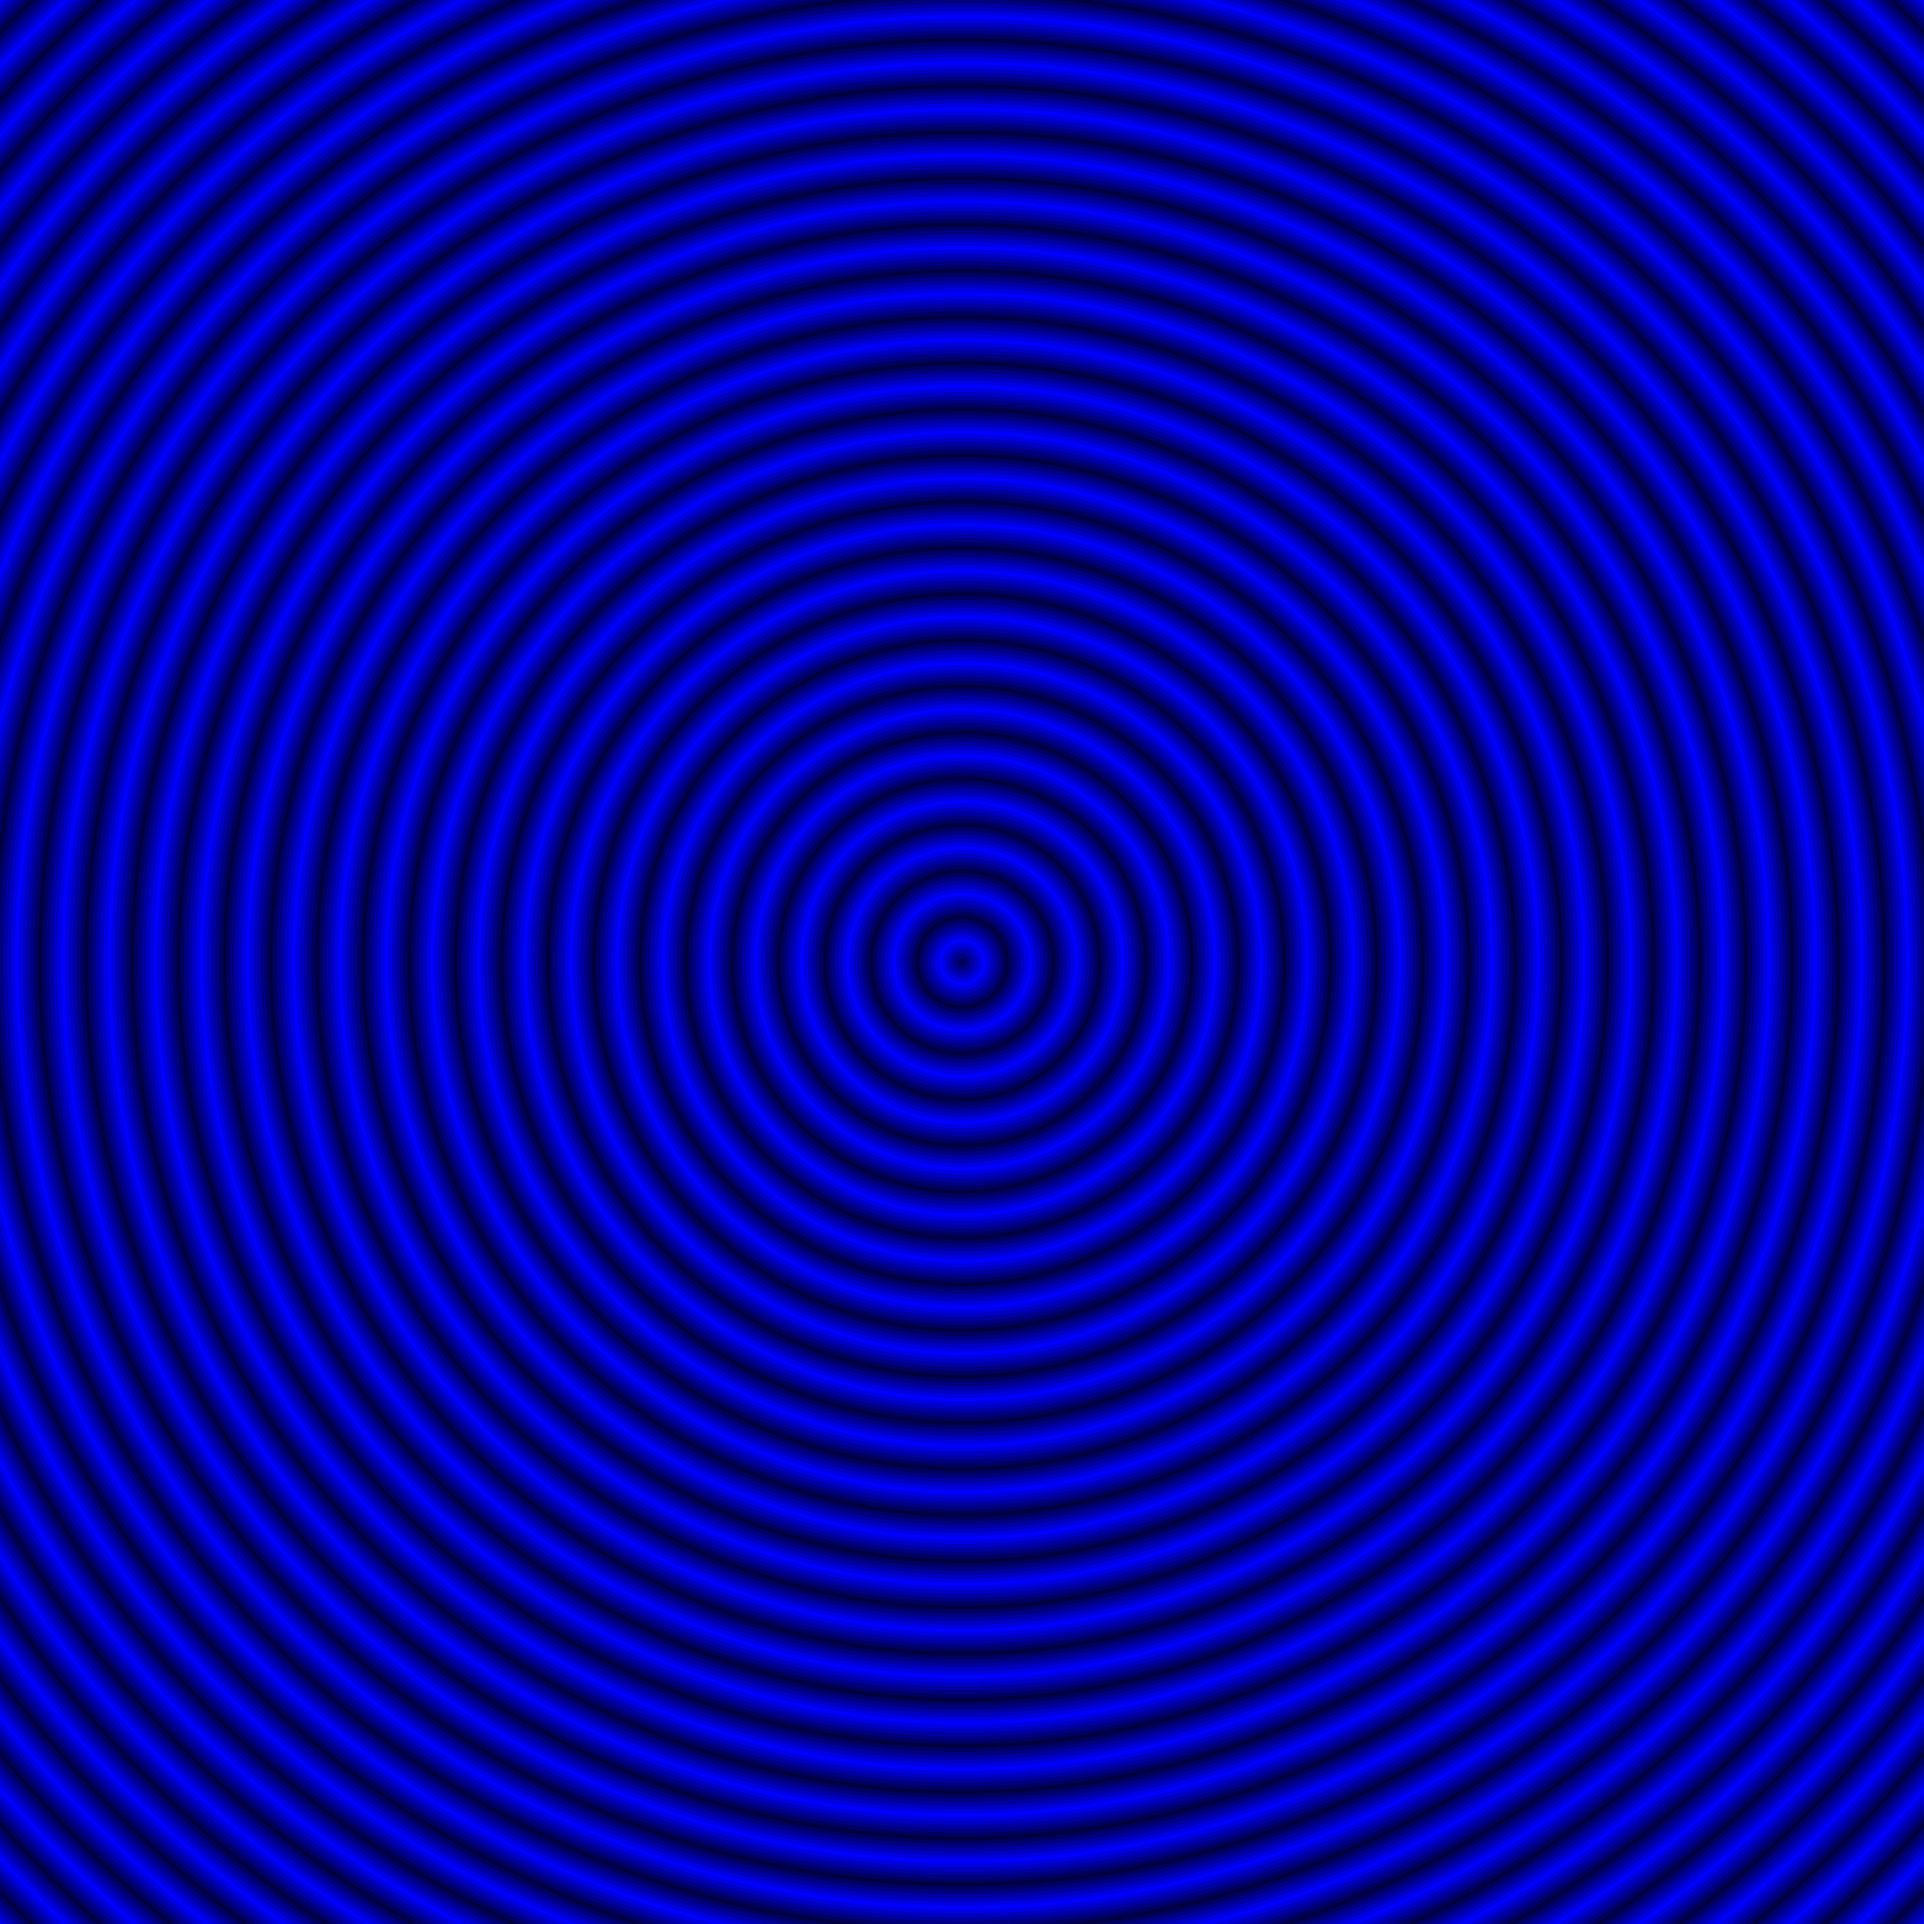
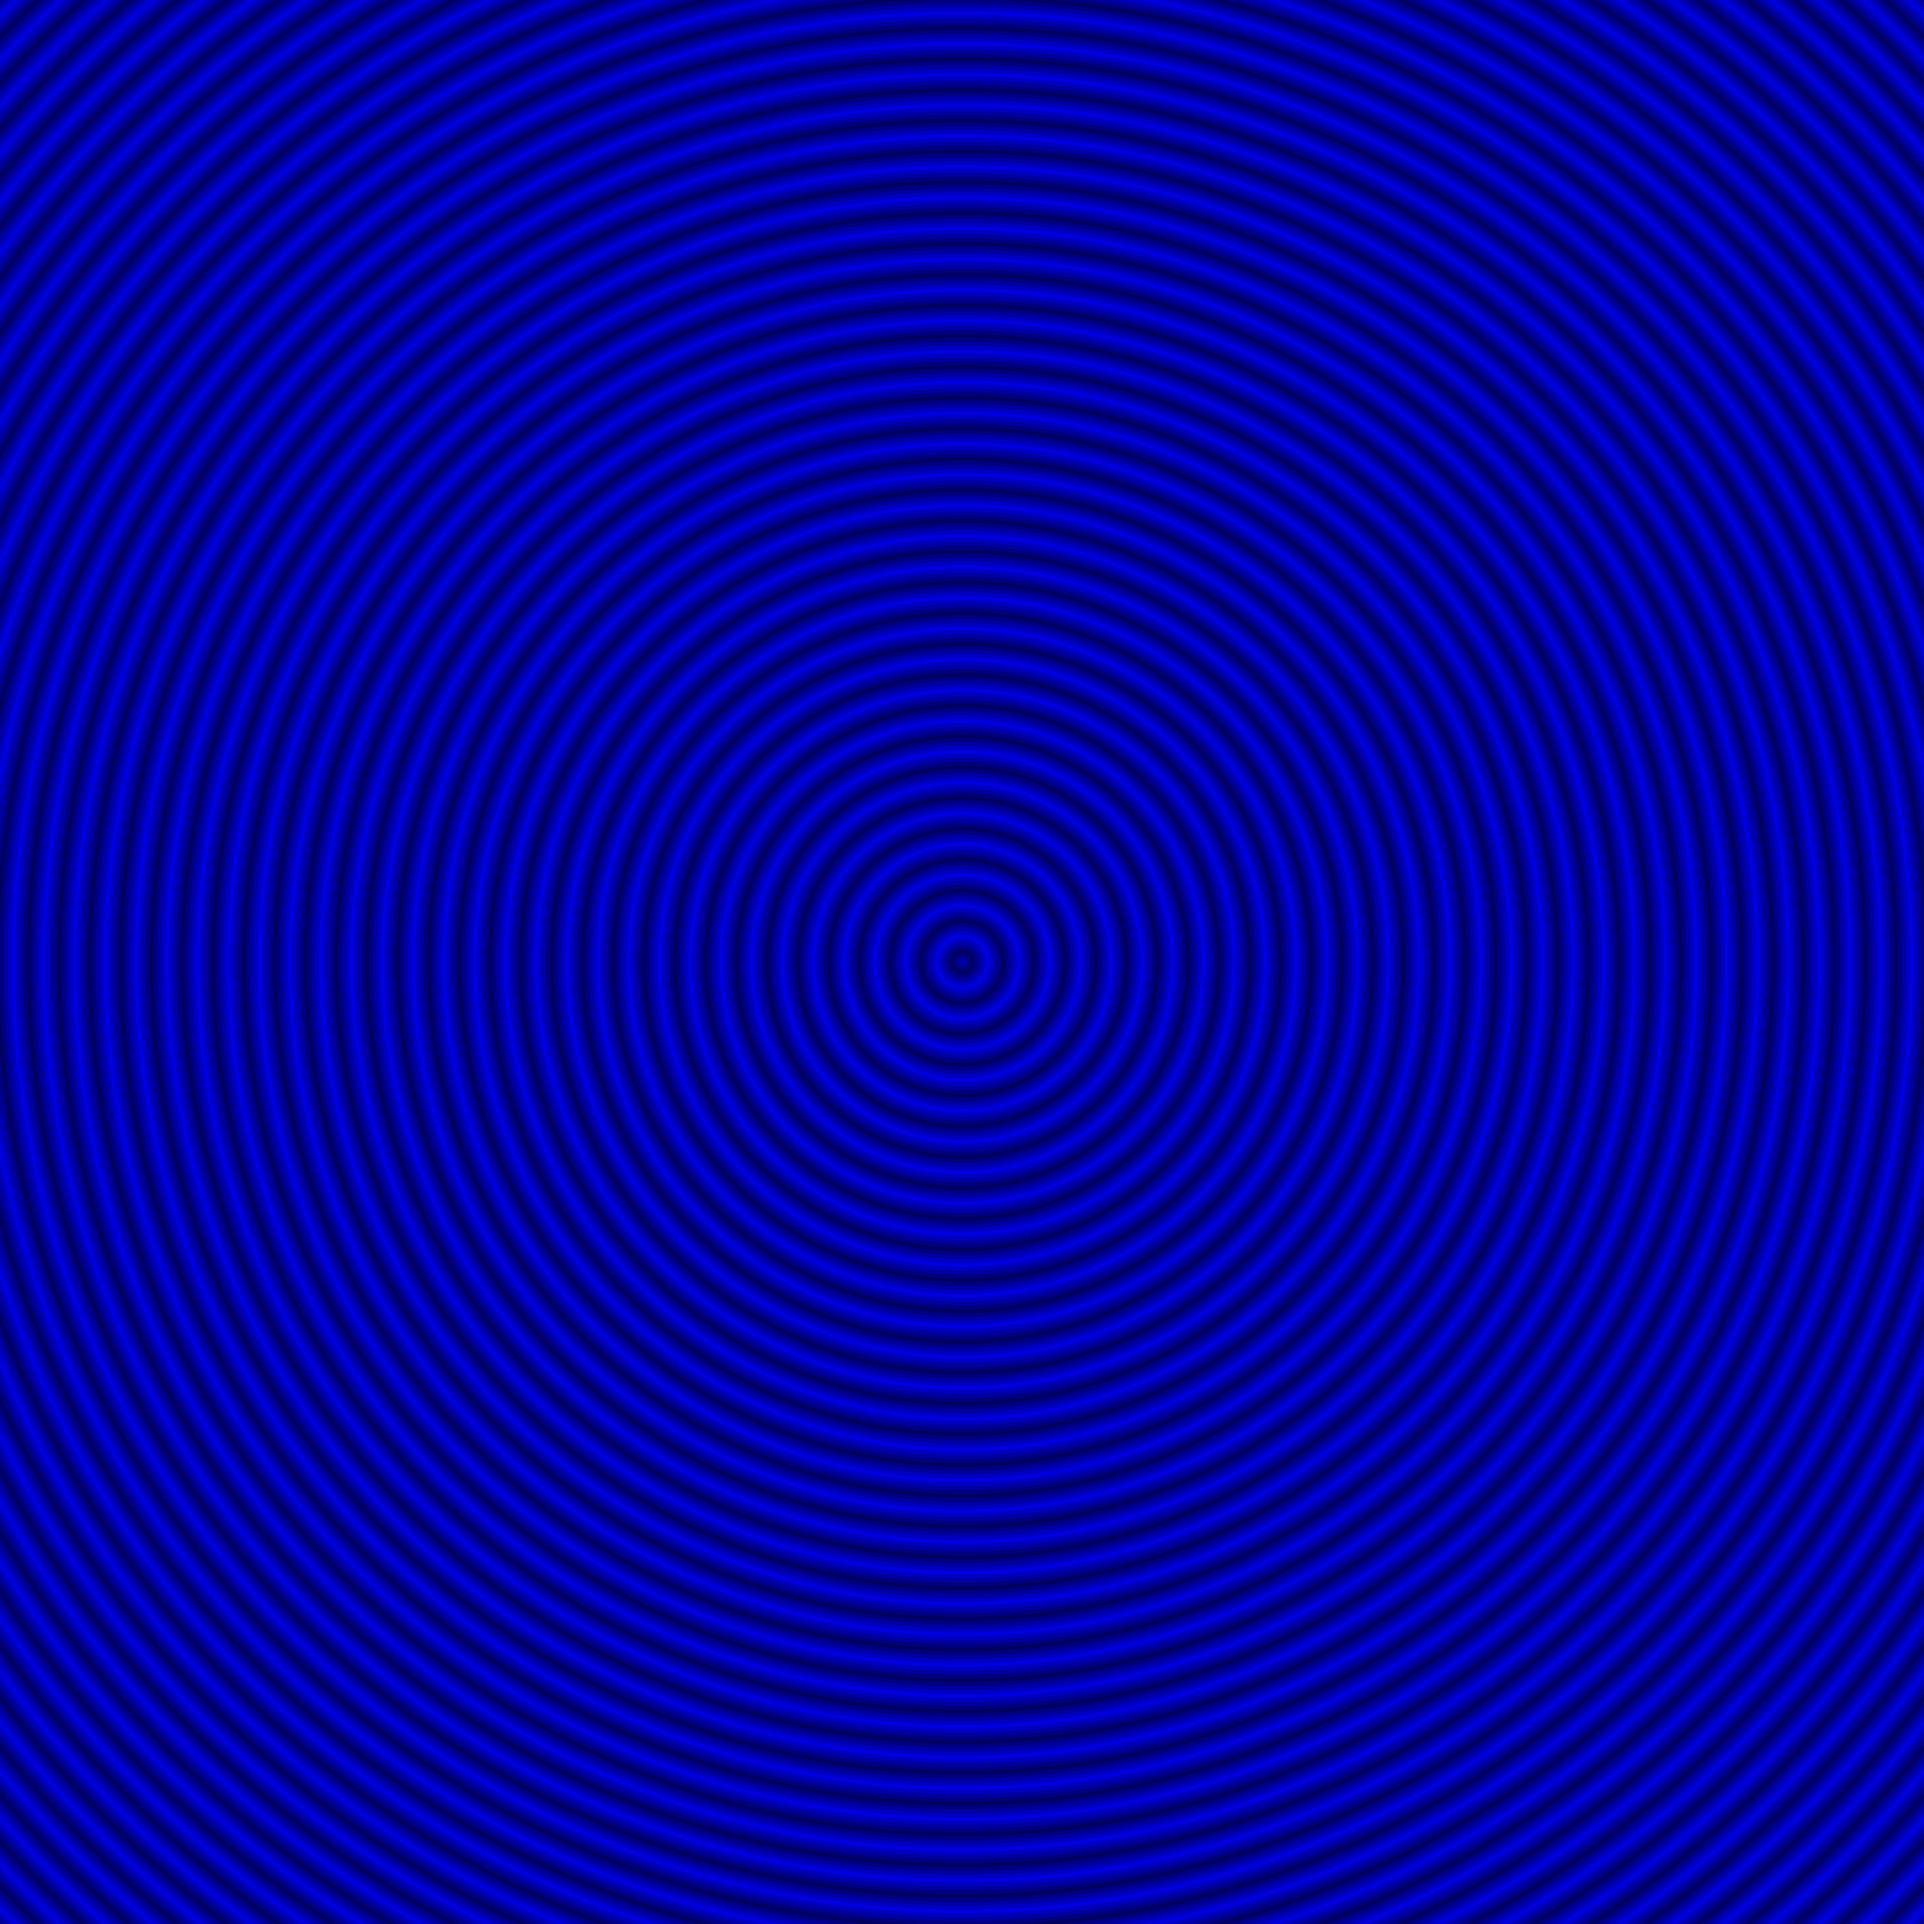
pulsing concentric circles centered on target

diff --git a/maze_game.py b/maze_game.py
@@ -3,6 +3,7 @@ from pygame.locals import *
 import argparse
 import json
 
+
 pygame.init()
  
 # Colours
@@ -23,16 +24,16 @@ WINDOW = pygame.display.set_mode((WINDOW_WIDTH, WINDOW_HEIGHT))
 pygame.display.set_caption('Maze Game!')
 
 #Set up spiral surface
-o_spiral = pygame.image.load('out/circles1.png')
+#o_spiral = pygame.image.load('out/circles1.png')
 #o_spiral = pygame.transform.scale_by(o_spiral, .5)
-print(o_spiral.get_size())
-spiral_surface = pygame.transform.scale_by(o_spiral, ZOOM)
-spiral_size = spiral_surface.get_size()
-print(spiral_size)
+#print(o_spiral.get_size())
+#spiral_surface = pygame.transform.scale_by(o_spiral, ZOOM)
+#spiral_size = spiral_surface.get_size()
+#print(spiral_size)
 
 #Set up command line arguments
 parser = argparse.ArgumentParser()
-parser.add_argument("input_file",  help="the maze file to be palyed")
+parser.add_argument("input_file",  help="the maze file to be played")
 args=parser.parse_args()
 
 # Load maze data
@@ -40,14 +41,28 @@ f = open (args.input_file, "r")
 maze_data = json.loads(f.read())
 
 # Load maze image
-image_file_loaction = maze_data['gameImage']
-o_maze_image = pygame.image.load(image_file_loaction).convert_alpha()
+image_file_location = maze_data['gameImage']
+o_maze_image = pygame.image.load(image_file_location).convert_alpha()
 maze_image = pygame.transform.scale_by(o_maze_image, ZOOM)
 maze_size = maze_image.get_size()
 print(maze_size)
 maze_surface = pygame.Surface(maze_size)
 maze_surface.fill((0,255,255))
 maze_surface.blit(maze_image, (0,0))
+
+# Load list of background images
+bg_images = []
+bg_image_locations = maze_data['backgroundImages']
+o_bg_images = [pygame.image.load(f'{i}') for i in bg_image_locations]
+bg_images = [pygame.image.load(f'{i}') for i in bg_image_locations]
+for i in range(len(bg_images)):
+    bg_images[i] = pygame.transform.scale_by(o_bg_images[i], ZOOM)
+#for bg_location in bg_image_locations:
+#    bg_image = pygame.image.load(bg_location)
+#    bg_images.append(bg_image)
+#bg_surface = pygame.Surface(bg_images[0].get_size())
+#bg_surface.fill((0,255,255))
+#bg_surface.blit(bg_images[0], (0,0))
 
 # Load maze structure data
 cells = maze_data['cells']
@@ -70,6 +85,7 @@ player_col = 0
 end_row = 0
 end_col = 0
 player_cell_data = 0
+bg_index = 0
 
 # Find maze start and end row and column
 for row in range(maze_height):
@@ -121,9 +137,27 @@ def spiral_pos (player_row, player_col, spiral_size):
     new_y = m_y - s_h/2 + (end_row*(ZOOM*8)+(ZOOM*4))
     new_origin = (new_x, new_y)
     return new_origin
+
+# Function to render the screen
+def screen_paint (origin, player_color):
+    global bg_index
+    global WINDOW
+    WINDOW.fill((0,0,0)) # black background
+    # pick the next bg_images item to blit
+    #bg_surface.blit(bg_images[bg_index], (0,0))
+    WINDOW.blit(bg_images[bg_index], origin)
+    #increment the bg_indedx
+    bg_index = bg_index + 1
+    if bg_index >= len(bg_images):
+        bg_index = 0
+    # blit the maze
+    WINDOW.blit(maze_image, origin)
+    # blit the player dot
+    pygame.draw.circle(WINDOW, player_color, (320,240), 3)
+    # update the screen
+    pygame.display.update()
+    #print("screen painted"+str(bg_index)+ " " + str(origin))
     
-
-
 
 # The main function that controls the game
 def main () :
@@ -132,6 +166,9 @@ def main () :
     global ZOOM
     global maze_image
     global maze_surface
+    global bg_images
+    global bg_surface
+    global bg_index
     looping = True
     lum = 0
     lum_dir = 5
@@ -152,6 +189,7 @@ def main () :
         #        lum_dir = 5
         #lum = lum + lum_dir
         moved = False
+        zoomed = False
         new_player_row = player_row
         new_player_col = player_col
         # Get inputs
@@ -163,9 +201,11 @@ def main () :
                 if event.key == pygame.K_PERIOD:
                     if ZOOM < ZOOM_MAX:
                         ZOOM = ZOOM*ZOOM_FACTOR
+                        zoomed = True
                 elif event.key == pygame.K_COMMA:
                     if ZOOM > ZOOM_MIN:
                         ZOOM = ZOOM/ZOOM_FACTOR
+                        zoomed = True
 
         if event.type == pygame.KEYDOWN:
             if event.key == pygame.K_UP:
@@ -192,25 +232,22 @@ def main () :
         if moved == True:
             old_pos = maze_pos(player_row, player_col)
             new_pos = maze_pos(new_player_row, new_player_col)
-            old_spiral_pos = spiral_pos(player_row, player_col, spiral_surface.get_size())
-            new_spiral_pos = spiral_pos(new_player_row, new_player_col, spiral_surface.get_size())
+            #old_spiral_pos = spiral_pos(player_row, player_col, spiral_surface.get_size())
+            #new_spiral_pos = spiral_pos(new_player_row, new_player_col, spiral_surface.get_size())
             for step in range (8):
                 interim_pos = (old_pos[0] + (new_pos[0]-old_pos[0])/8*(step+1),old_pos[1] + (new_pos[1]-old_pos[1])/8*(step+1))
-                interim_spiral_pos = (old_spiral_pos[0] + (new_spiral_pos[0]-old_spiral_pos[0])/8*(step+1),old_spiral_pos[1] + (new_spiral_pos[1]-old_spiral_pos[1])/8*(step+1))
-                #WINDOW.fill((lum,lum,0))
-                WINDOW.fill((0,0,0))
-                WINDOW.blit(spiral_surface, interim_spiral_pos)
-                WINDOW.blit(maze_surface, interim_pos)
-                pygame.draw.circle(WINDOW, me_color, (320,240), 3)
-                pygame.display.update()
+                screen_paint(interim_pos, me_color)
                 fpsClock.tick(FPS)
 
             player_row = new_player_row
             player_col = new_player_col
 
         player_cell_data = cells[new_player_row*maze_width + new_player_col]
-        maze_surface = pygame.transform.scale_by(o_maze_image, ZOOM)
-        spiral_surface = pygame.transform.scale_by(o_spiral, ZOOM)
+        if zoomed:
+            maze_image = pygame.transform.scale_by(o_maze_image, ZOOM)
+            for i in range(len(bg_images)):
+                bg_images[i] = pygame.transform.scale_by(o_bg_images[i], ZOOM)
+        #bg_surface = pygame.transform.scale_by(bg_images[0], ZOOM)
         if player_cell_data & on_path == on_path:
             me_color = (0,0,255)
         else:
@@ -220,12 +257,22 @@ def main () :
             
 
         # Render elements of the game
-        #WINDOW.fill((lum,lum,0))
-        WINDOW.fill((0,0,0))
-        #spiral_surface = pygame.transform.rotate(spiral_surface, spiral_angle)
-        WINDOW.blit(spiral_surface, spiral_pos(player_row, player_col, spiral_surface.get_size()))
-        WINDOW.blit(maze_surface, maze_pos (player_row, player_col))
-        pygame.draw.circle(WINDOW, me_color, (320,240), 3)
+        new_origin = maze_pos (player_row, player_col)
+        #screen_paint(new_origin, me_color)
+        #WINDOW.fill((0,0,0)) # black background
+        # pick the next bg_images item to blit
+        #bg_surface.blit(bg_images[bg_index], (0,0))
+        #WINDOW.blit(bg_surface, new_origin)
+        #increment the bg_indedx
+        #bg_index = bg_index + 1
+        #if bg_index >= len(bg_images):
+        #    bg_index = 0
+        # blit the maze
+        #WINDOW.blit(maze_surface, new_origin)
+        # blit the player dot
+        #pygame.draw.circle(WINDOW, me_color, (320,240), 3)
+        # update the screen
+        screen_paint(new_origin, me_color)
         pygame.display.update()
         fpsClock.tick(FPS)
 

diff --git a/circular.py b/circular.py
@@ -18,11 +18,11 @@ widest_radius = int(math.sqrt(width*width+width*width)) + 1
 print(widest_radius)
 for radius in range(widest_radius, 0, -8):
     dctx.ellipse([(width/2 - radius, width/2-radius), (width/2+radius, width/2+radius)], (0,0,this_color), None, 0)
-    this_color = this_color + color_direction*color_step_size
-    if this_color > hi_blue:
+    if this_color >= hi_blue:
         color_direction = -1
-    if this_color < low_blue:
+    if this_color <= low_blue:
         color_direction = 1
+    this_color = this_color + color_direction*color_step_size
 img.save("out/circles1.png")
 
 this_color = low_blue + 32
@@ -31,11 +31,11 @@ color_direction = 1
 
 for radius in range(widest_radius, 0, -8):
     dctx.ellipse([(width/2 - radius, width/2-radius), (width/2+radius, width/2+radius)], (0,0,this_color), None, 0)
-    this_color = this_color + color_direction*color_step_size
-    if this_color > hi_blue:
+    if this_color >= hi_blue:
         color_direction = -1
-    if this_color < low_blue:
+    if this_color <= low_blue:
         color_direction = 1
+    this_color = this_color + color_direction*color_step_size
 img.save("out/circles2.png")
 
 this_color = low_blue + 64
@@ -43,11 +43,11 @@ color_direction = 1
 
 for radius in range(widest_radius, 0, -8):
     dctx.ellipse([(width/2 - radius, width/2-radius), (width/2+radius, width/2+radius)], (0,0,this_color), None, 0)
-    this_color = this_color + color_direction*color_step_size
-    if this_color > hi_blue:
+    if this_color >= hi_blue:
         color_direction = -1
-    if this_color < low_blue:
+    if this_color <= low_blue:
         color_direction = 1
+    this_color = this_color + color_direction*color_step_size
 img.save("out/circles3.png")
 
 this_color = low_blue + 96
@@ -55,11 +55,11 @@ color_direction = 1
 
 for radius in range(widest_radius, 0, -8):
     dctx.ellipse([(width/2 - radius, width/2-radius), (width/2+radius, width/2+radius)], (0,0,this_color), None, 0)
-    this_color = this_color + color_direction*color_step_size
-    if this_color > hi_blue:
+    if this_color >= hi_blue:
         color_direction = -1
-    if this_color < low_blue:
+    if this_color <= low_blue:
         color_direction = 1
+    this_color = this_color + color_direction*color_step_size
 img.save("out/circles4.png")
 
 this_color = hi_blue
@@ -67,11 +67,46 @@ color_direction = -1
 
 for radius in range(widest_radius, 0, -8):
     dctx.ellipse([(width/2 - radius, width/2-radius), (width/2+radius, width/2+radius)], (0,0,this_color), None, 0)
-    this_color = this_color + color_direction*color_step_size
-    if this_color > hi_blue:
+    if this_color >= hi_blue:
         color_direction = -1
-    if this_color < low_blue:
+    if this_color <= low_blue:
         color_direction = 1
+    this_color = this_color + color_direction*color_step_size
 img.save("out/circles5.png")
 
+this_color = low_blue + 96
+color_direction = -1
 
+for radius in range(widest_radius, 0, -8):
+    dctx.ellipse([(width/2 - radius, width/2-radius), (width/2+radius, width/2+radius)], (0,0,this_color), None, 0)
+    if this_color >= hi_blue:
+        color_direction = -1
+    if this_color <= low_blue:
+        color_direction = 1
+    this_color = this_color + color_direction*color_step_size
+img.save("out/circles6.png")
+
+this_color = low_blue + 64
+color_direction = -1
+
+for radius in range(widest_radius, 0, -8):
+    dctx.ellipse([(width/2 - radius, width/2-radius), (width/2+radius, width/2+radius)], (0,0,this_color), None, 0)
+    if this_color >= hi_blue:
+        color_direction = -1
+    if this_color <= low_blue:
+        color_direction = 1
+    this_color = this_color + color_direction*color_step_size
+img.save("out/circles7.png")
+
+this_color = low_blue + 32
+color_direction = -1
+
+
+for radius in range(widest_radius, 0, -8):
+    dctx.ellipse([(width/2 - radius, width/2-radius), (width/2+radius, width/2+radius)], (0,0,this_color), None, 0)
+    if this_color >= hi_blue:
+        color_direction = -1
+    if this_color <= low_blue:
+        color_direction = 1
+    this_color = this_color + color_direction*color_step_size
+img.save("out/circles8.png")

diff --git a/maze_image.py b/maze_image.py
@@ -937,7 +937,7 @@ crop_left = 2000 - ccx
 crop_bottom  = crop_top + height*8
 crop_right = crop_left + width*8
 
-for index in range(5):
+for index in range(8):
     file_index = index + 1
     circ_img = Image.open("./src/circles" + str(file_index) + ".png")
     circ_img = circ_img.crop((crop_left, crop_top, crop_right, crop_bottom))
@@ -956,6 +956,11 @@ mdf.update({"width":width})
 mdf.update({"height":height})
 mdf.update({"originalImage":args.input_file})
 mdf.update({"gameImage":args.output_file+"_alpha.png"})
+bg_images = []
+for index in range(8):
+    file_index = index + 1
+    bg_images.append(args.output_file+"_bg"+str(file_index)+".png")    
+mdf.update({"backgroundImages":bg_images})
 cells_out = []
 for row in range(height):
     for col in range(width):
